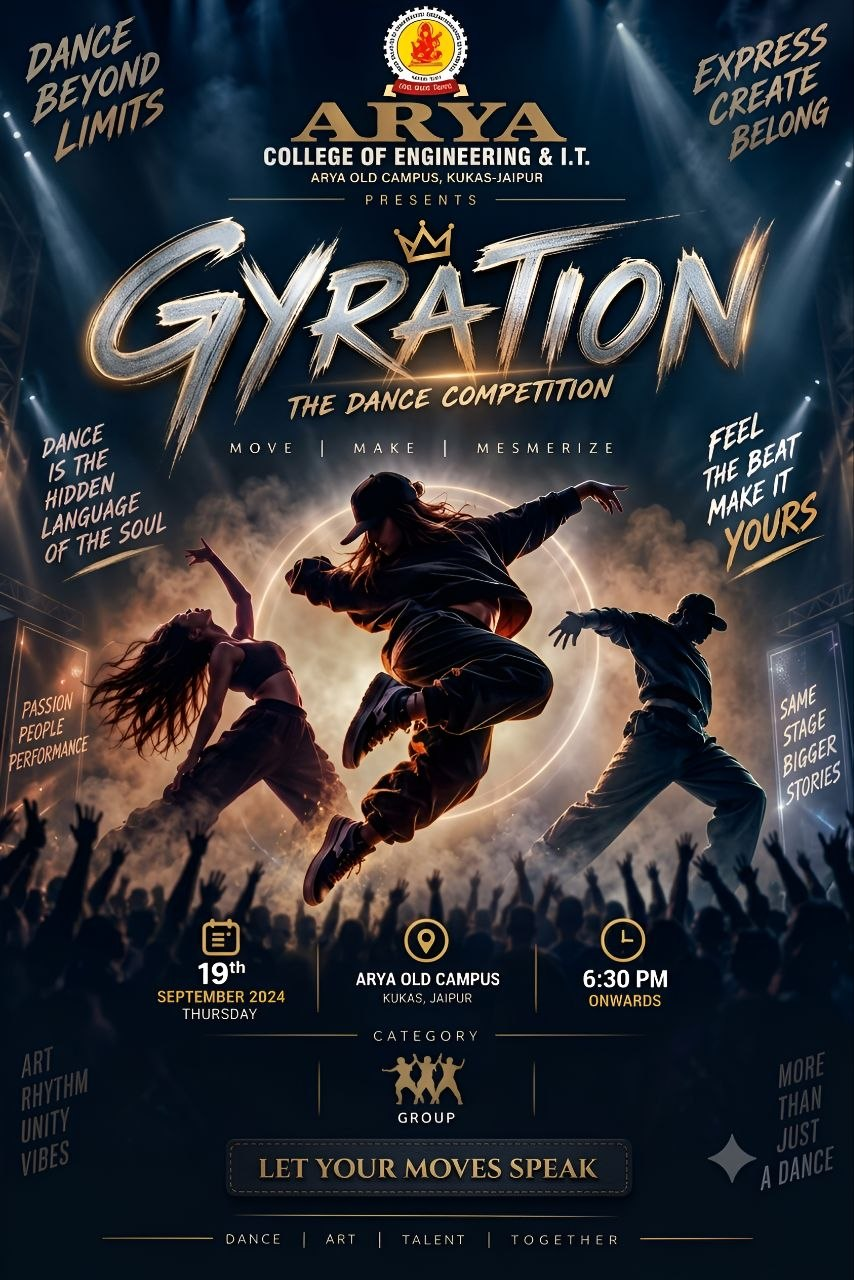
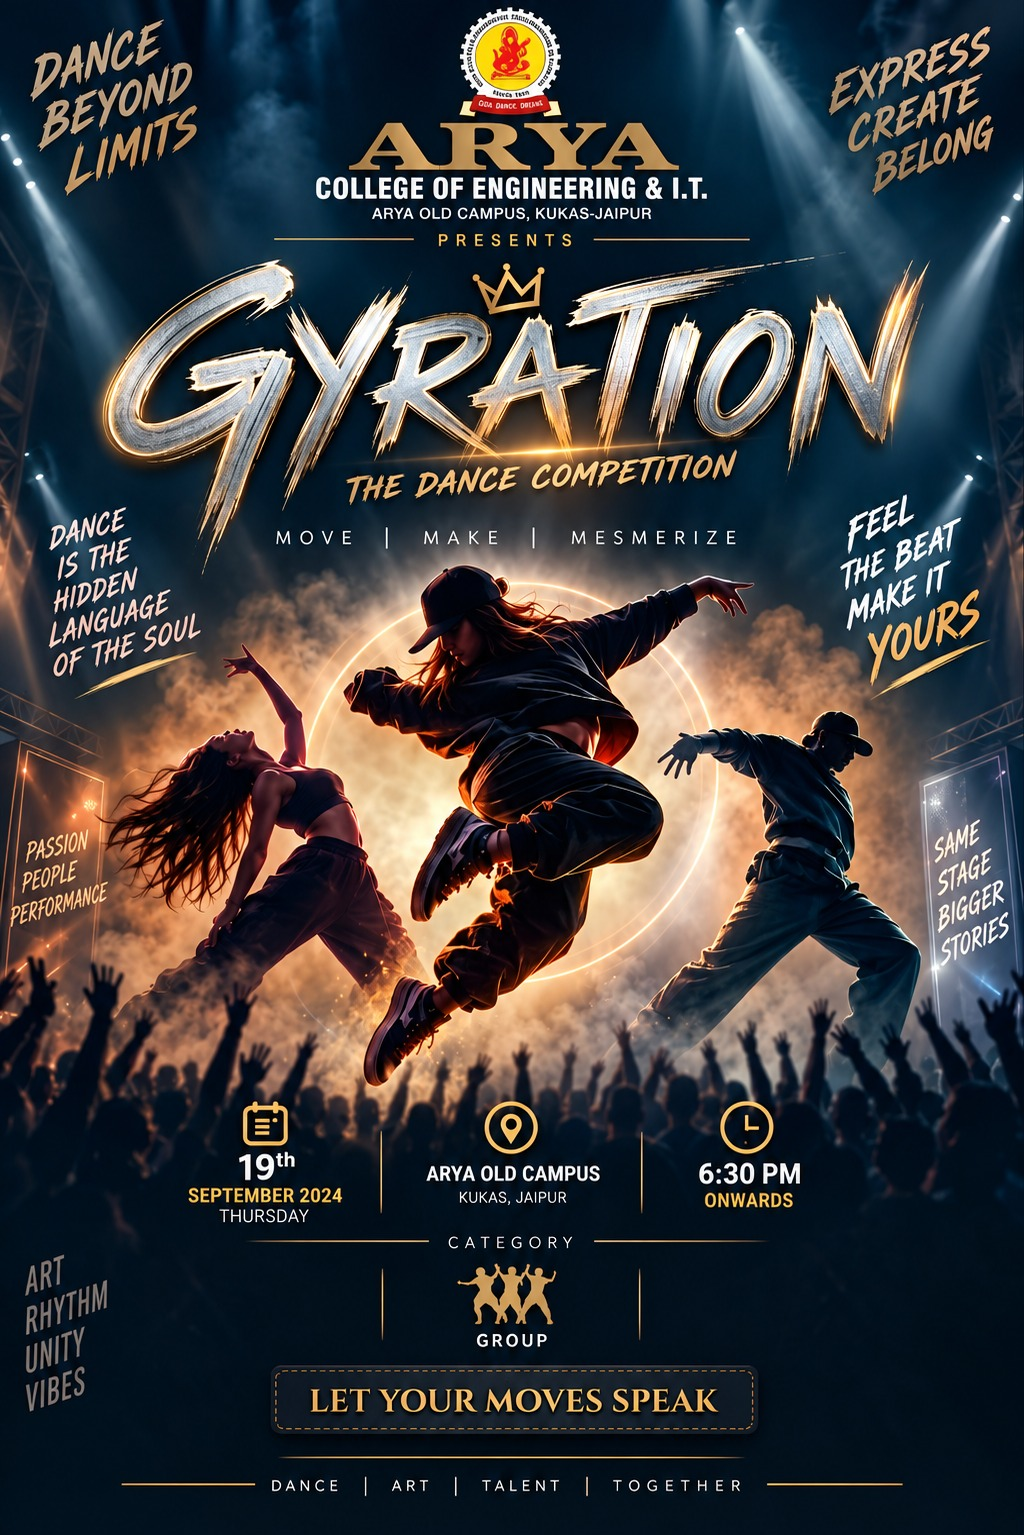
Add Intelverse and Art & Craft clubs to the carousel
Also repoint the Go-Kart logo import at the .jpg that replaced the .png.
The .png was removed when the new logos were added, and the missing
module took down the whole bundle, rendering a blank page.

diff --git a/src/components/OrganizerCards/OrganizerCards.jsx b/src/components/OrganizerCards/OrganizerCards.jsx
@@ -17,7 +17,7 @@ import dramaImg from "../../assets/club logos/Arya_Drama_Club.jpg";
 import dronesImg from "../../assets/club logos/Arya_Drones_Club - Jaideep Chouhan.jpeg";
 import ecoWarriorsImg from "../../assets/club logos/Arya_Eco_Warrior_Club.jpg";
 import esportsImg from "../../assets/club logos/Arya_E-Sports_club.jpeg";
-import goKartImg from "../../assets/club logos/GOKART LOGO (1) - Daud Ibrahim.png";
+import goKartImg from "../../assets/club logos/GOKART LOGO (1) - Daud Ibrahim.jpg";
 import movieImg from "../../assets/club logos/Arya_Movie_Club.jpg";
 import scienceTechnologyImg from "../../assets/club logos/Arya_Science&Technology.png";
 import skillDevelopmentImg from "../../assets/club logos/Arya Skill development club - Vaidik Nama.jpg";
@@ -25,6 +25,8 @@ import socialActivitiesImg from "../../assets/club logos/Arya Social Activity Cl
 import carromImg from "../../assets/club logos/Arya_Carrom_Club.jpg";
 import kabaddiImg from "../../assets/club logos/Arya_Kabaddi_Club.jpg";
 import lincomImg from "../../assets/club logos/Arya_Lincom_Club.jpg";
+import intelverseImg from "../../assets/club logos/Arya_Intelverse_IOT_Club.jpg";
+import artCraftImg from "../../assets/club logos/Arya_Art_and_Craft_Club.jpg";
 import SideAccent from "../common/SideAccent/SideAccent";
 import FestivalSprite from "../common/FestivalSprite/FestivalSprite";
 import collegeLogo from "../../assets/collegeLogo.png";
@@ -41,6 +43,7 @@ const clubs = [
     { name: "Arya Green Energy Club",         img: greenEnergyImg },
     { name: "Arya Table Tennis Club",         img: tableTennisImg },
     // ── Remaining (alphabetical) ─────────────────────────────────────────
+    { name: "Arya Art & Craft Club",           img: artCraftImg },
     { name: "Arya Automation Club",           img: automationImg },
     { name: "Arya Basketball Club",           img: basketballImg },
     { name: "Arya Carrom Club",               img: carromImg },
@@ -50,6 +53,7 @@ const clubs = [
     { name: "Arya Eco Warriors Club",         img: ecoWarriorsImg },
     { name: "Arya E-Sports Club",             img: esportsImg },
     { name: "Arya Go-Kart Club",              img: goKartImg },
+    { name: "Arya Intelverse (IoT) Club",     img: intelverseImg },
     { name: "Arya Kabaddi Club",              img: kabaddiImg },
     { name: "Arya Lincom Club",               img: lincomImg },
     { name: "Arya Movie Club",                img: movieImg },
